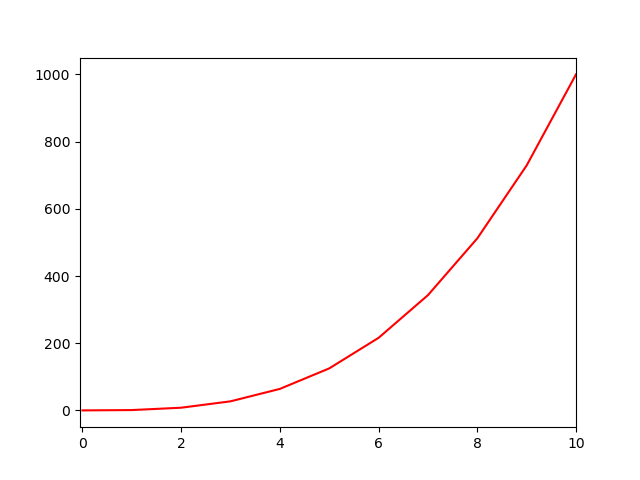
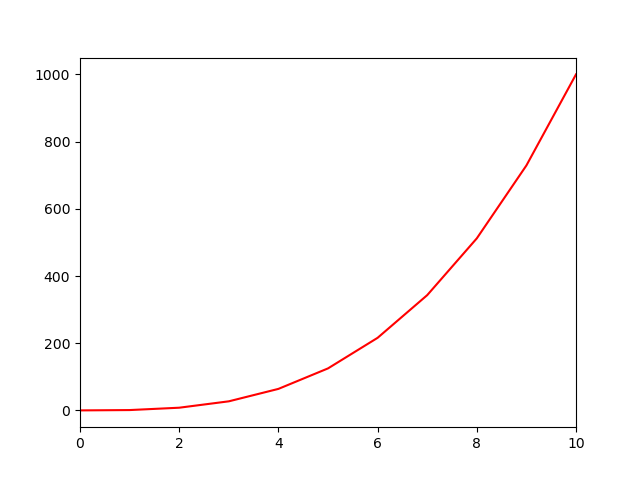
isle artiq

diff --git a/math/plotting/0-line.py b/math/plotting/0-line.py
@@ -10,6 +10,10 @@ def line():
     # your code here
     x = np.arange(0, 11)
     plt.plot(x, y, color='#FF0000')
-    plt.xlim(left=0, right=0)
+    plt.xlim(0, 10)
     plt.xticks(np.arange(0, 11, 2))
+    plt.savefig('my_plot.png')
+    plt.close()
     plt.show()
+
+line()
